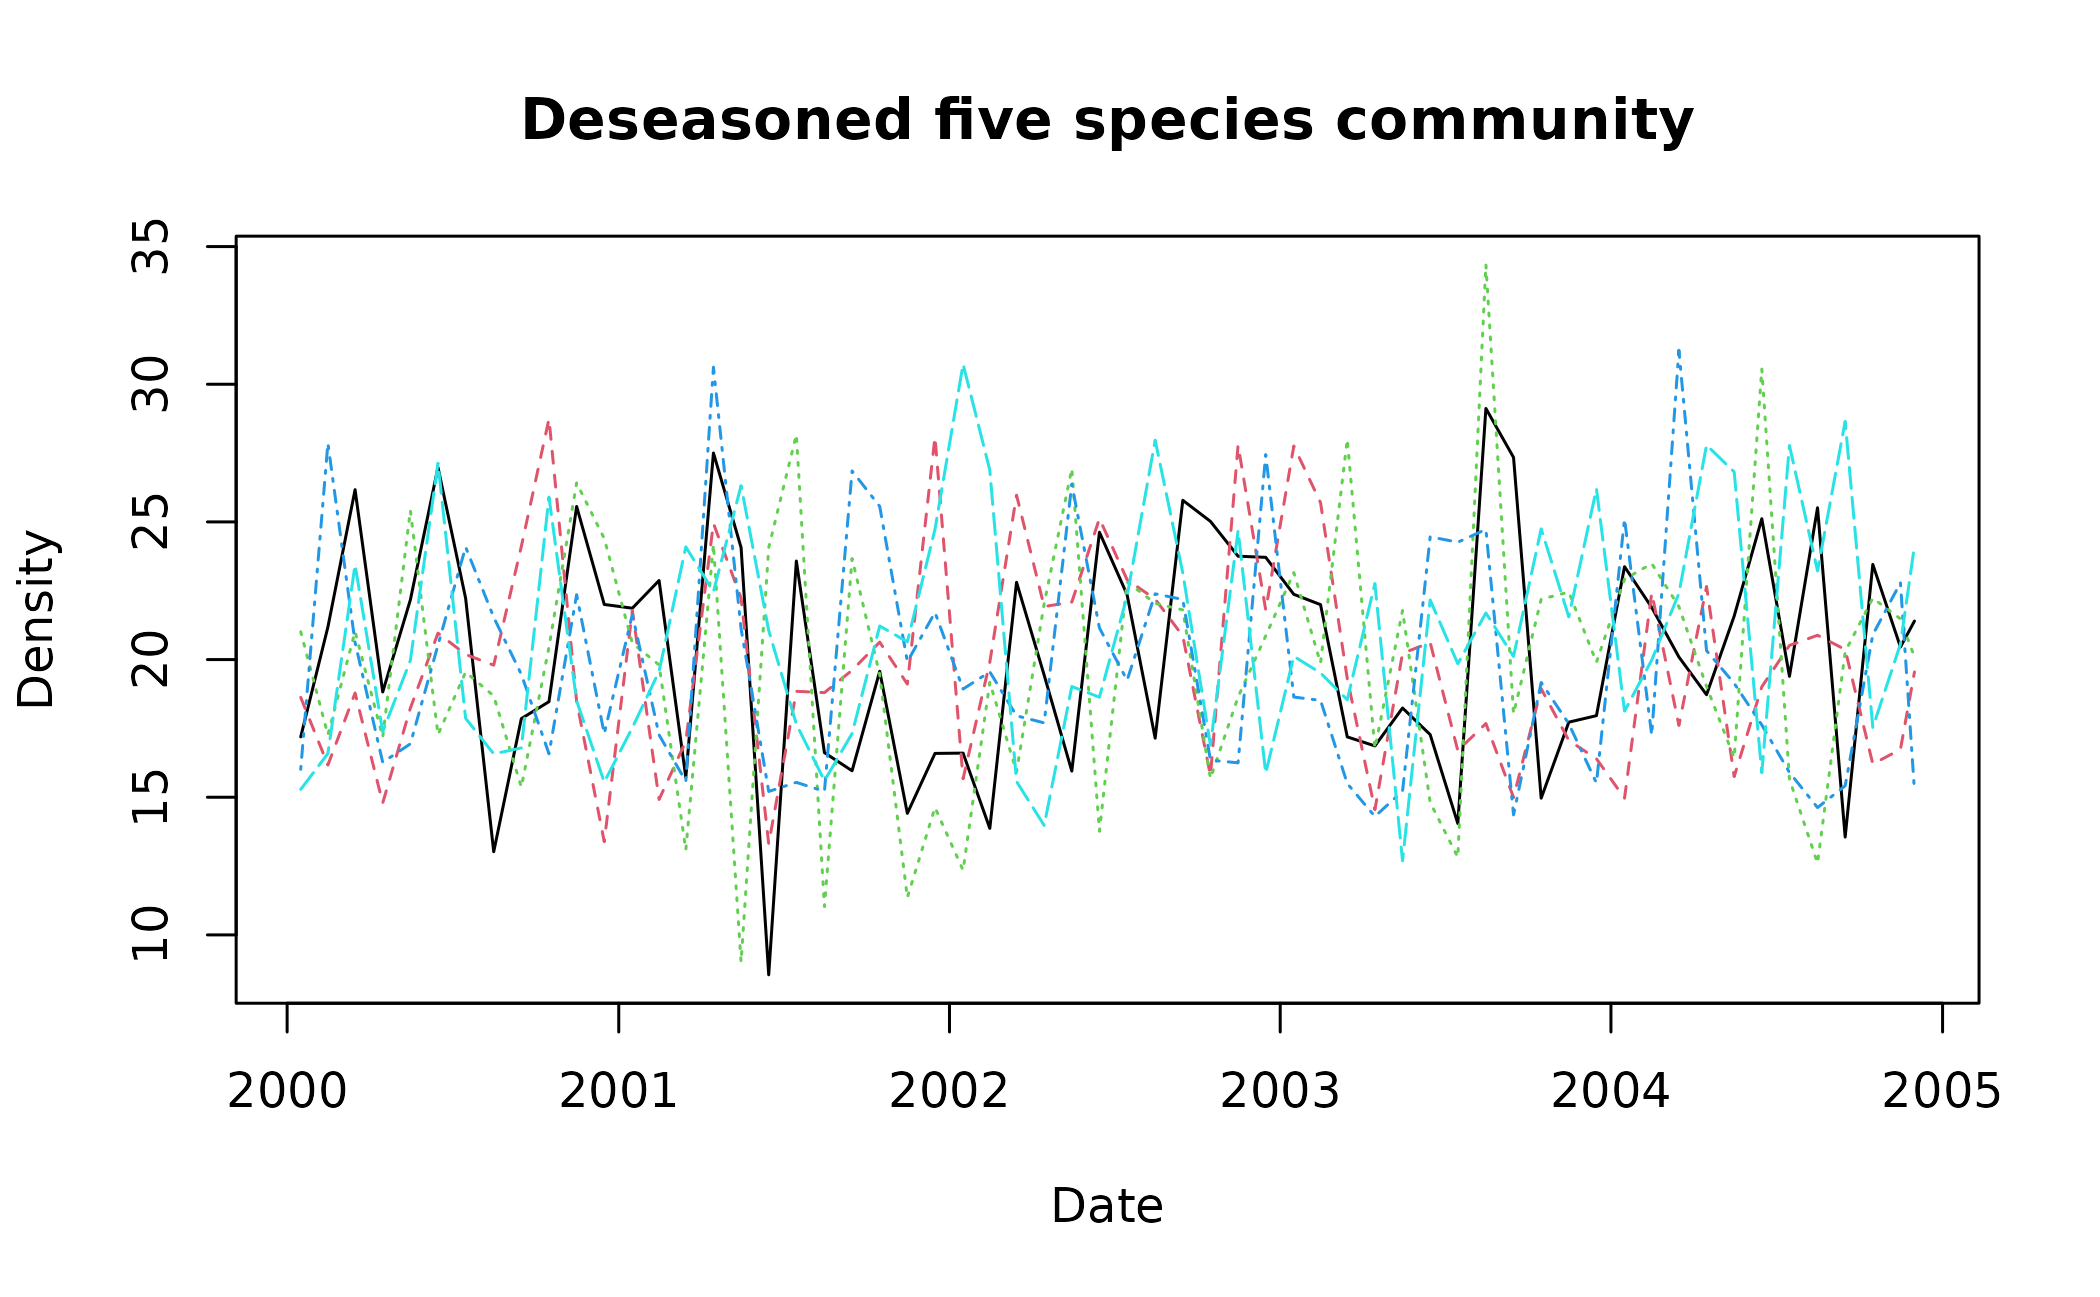
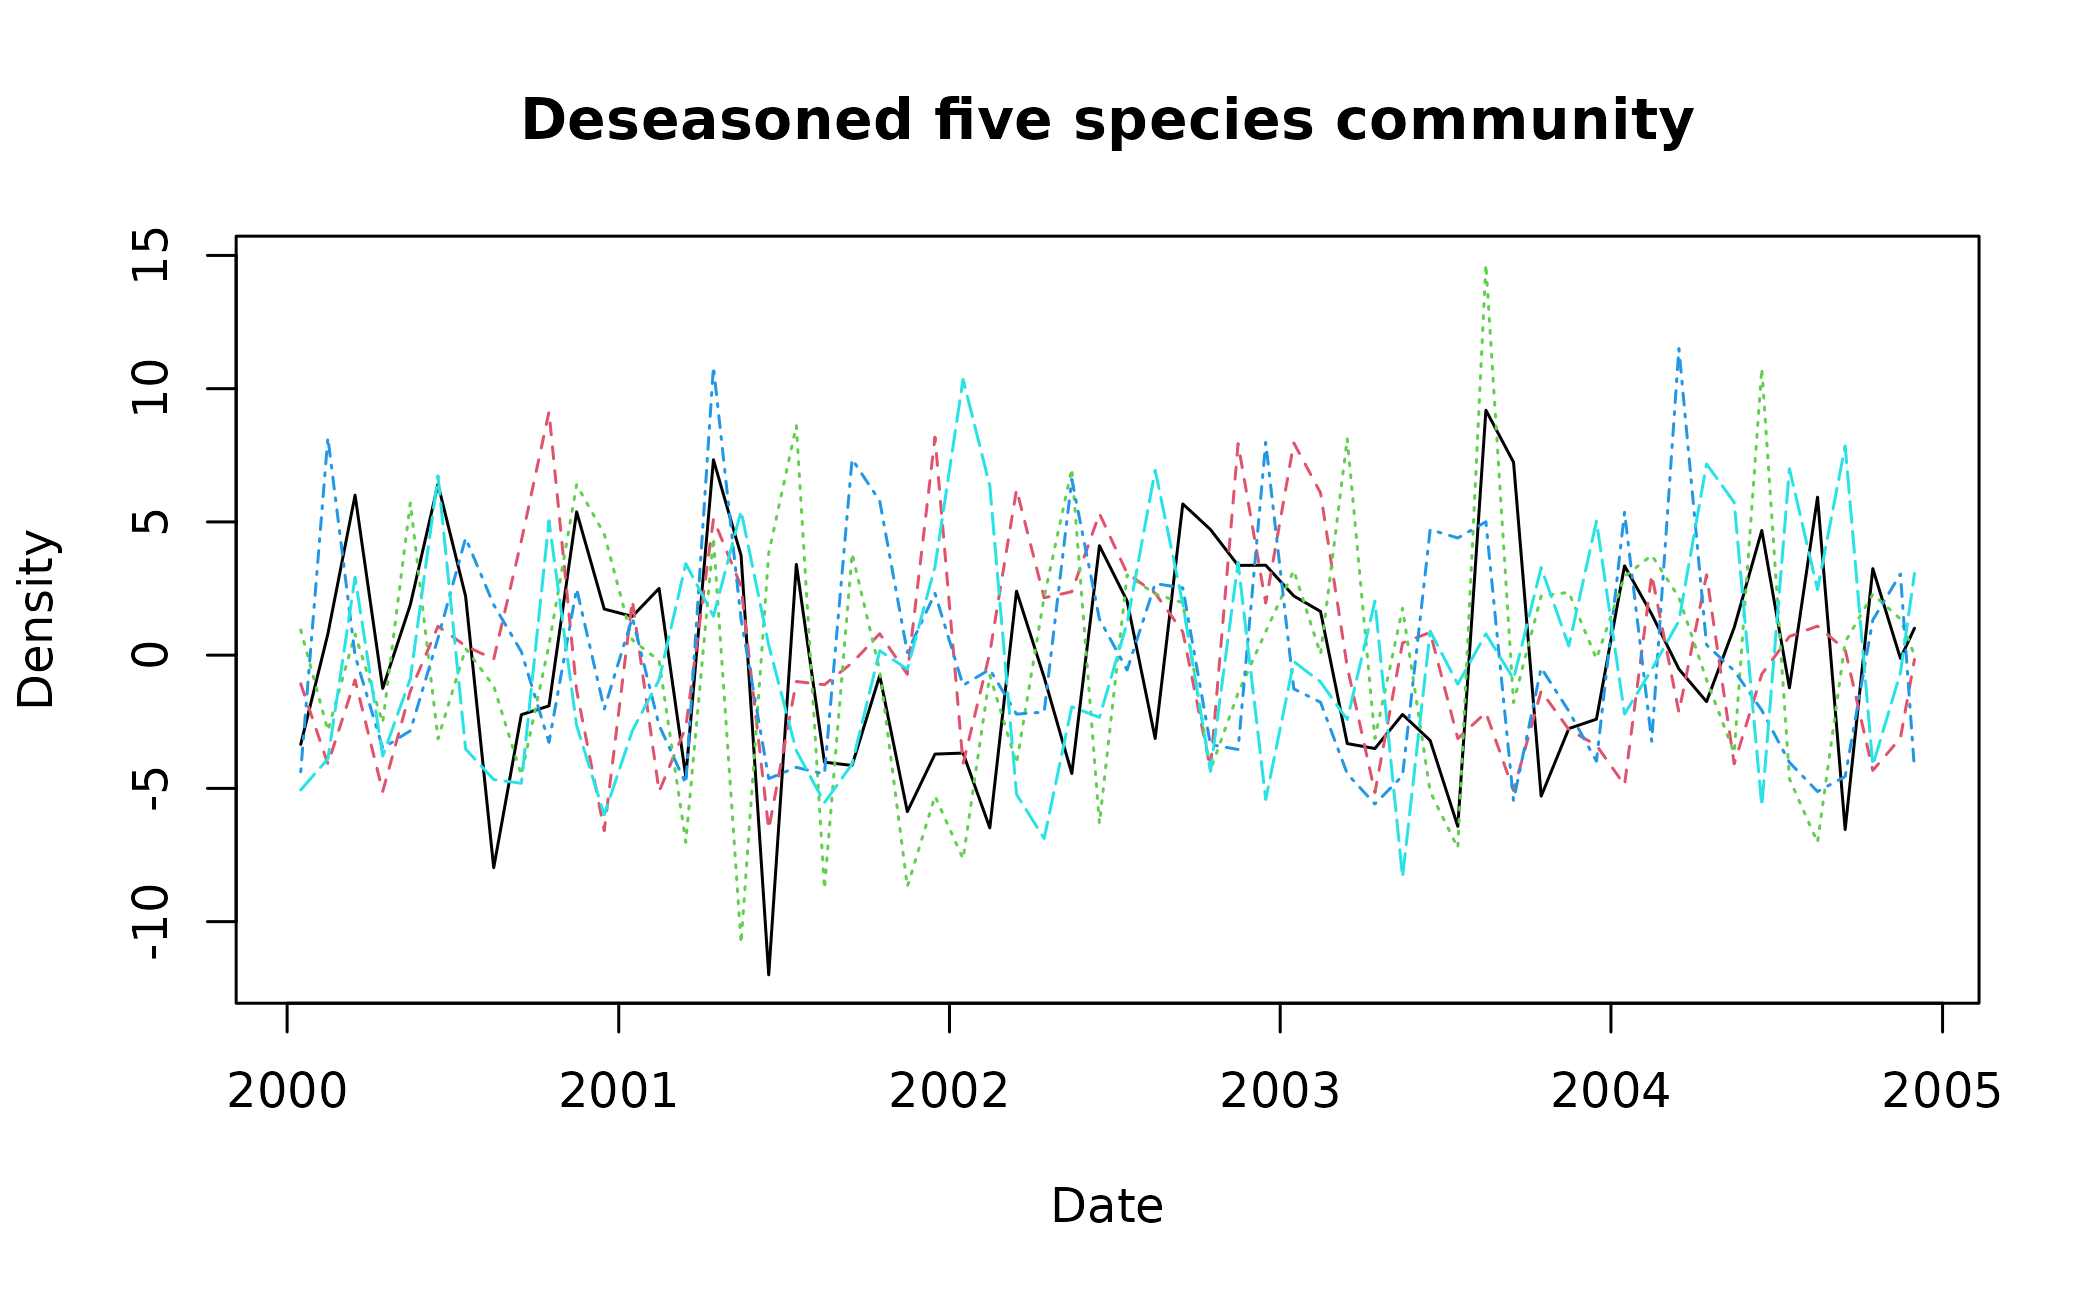
Deploying to gh-pages from @ duncanobrien/EWSmethods@a74e670c63197b9b1fb708d73c9927f040a74ecc 🚀

diff --git a/articles/ews_assessments.html b/articles/ews_assessments.html
@@ -470,7 +470,7 @@ Rolling (A) vs expanding (C) window concept diagram. Panels B and D introduce th
 <p><img src="ews_assessments_files/figure-html/create_seasonal-1.png" width="1050"></p>
 <p>As <code>multi_spp_data</code> is random, there are few pronounced cycles but for the sake of this tutorial, <code><a href="../reference/deseason_ts.html">deseason_ts()</a></code> would be applied to it as such:</p>
 <div class="sourceCode" id="cb13"><pre class="downlit sourceCode r">
-<code class="sourceCode R"><span><span class="va">deseas_dat</span> <span class="op">&lt;-</span> <span class="fu"><a href="../reference/deseason_ts.html">deseason_ts</a></span><span class="op">(</span>data <span class="op">=</span> <span class="va">multi_spp_data</span>, increment <span class="op">=</span> <span class="st">"month"</span>, method <span class="op">=</span> <span class="st">"stl"</span>, order <span class="op">=</span> <span class="st">"ymd"</span><span class="op">)</span></span>
+<code class="sourceCode R"><span><span class="va">deseas_dat</span> <span class="op">&lt;-</span> <span class="fu"><a href="../reference/deseason_ts.html">deseason_ts</a></span><span class="op">(</span>data <span class="op">=</span> <span class="va">multi_spp_data</span>, increment <span class="op">=</span> <span class="st">"month"</span>, method <span class="op">=</span> <span class="st">"average"</span>, order <span class="op">=</span> <span class="st">"ymd"</span><span class="op">)</span></span>
 <span><span class="co">#&gt; data successfully aggregated into monthly time steps</span></span>
 <span></span>
 <span><span class="fu"><a href="https://rdrr.io/r/graphics/matplot.html" class="external-link">matplot</a></span><span class="op">(</span>x <span class="op">=</span> <span class="va">deseas_dat</span><span class="op">$</span><span class="va">date</span>, y <span class="op">=</span> <span class="va">deseas_dat</span><span class="op">[</span>,<span class="fl">2</span><span class="op">:</span><span class="fl">6</span><span class="op">]</span>, type <span class="op">=</span> <span class="st">"l"</span>, xlab <span class="op">=</span> <span class="st">"Date"</span>, ylab <span class="op">=</span> <span class="st">"Density"</span>,  main <span class="op">=</span> <span class="st">"Deseasoned five species community"</span><span class="op">)</span></span></code></pre></div>

diff --git a/articles/using_ewsnet.html b/articles/using_ewsnet.html
@@ -167,7 +167,7 @@
 <span></span>
 <span><span class="va">ewsnet_prediction</span></span>
 <span><span class="co">#&gt;                  pred no_trans_prob smooth_trans_prob critical_trans_prob</span></span>
-<span><span class="co">#&gt; 1 Critical Transition     0.2576549        0.06387473           0.6784704</span></span></code></pre></div>
+<span><span class="co">#&gt; 1 Critical Transition     0.2609516        0.04718157           0.6918668</span></span></code></pre></div>
 <div class="section level4">
 <h4 id="interpreting-ewsnet">Interpreting EWSNet<a class="anchor" aria-label="anchor" href="#interpreting-ewsnet"></a>
 </h4>
